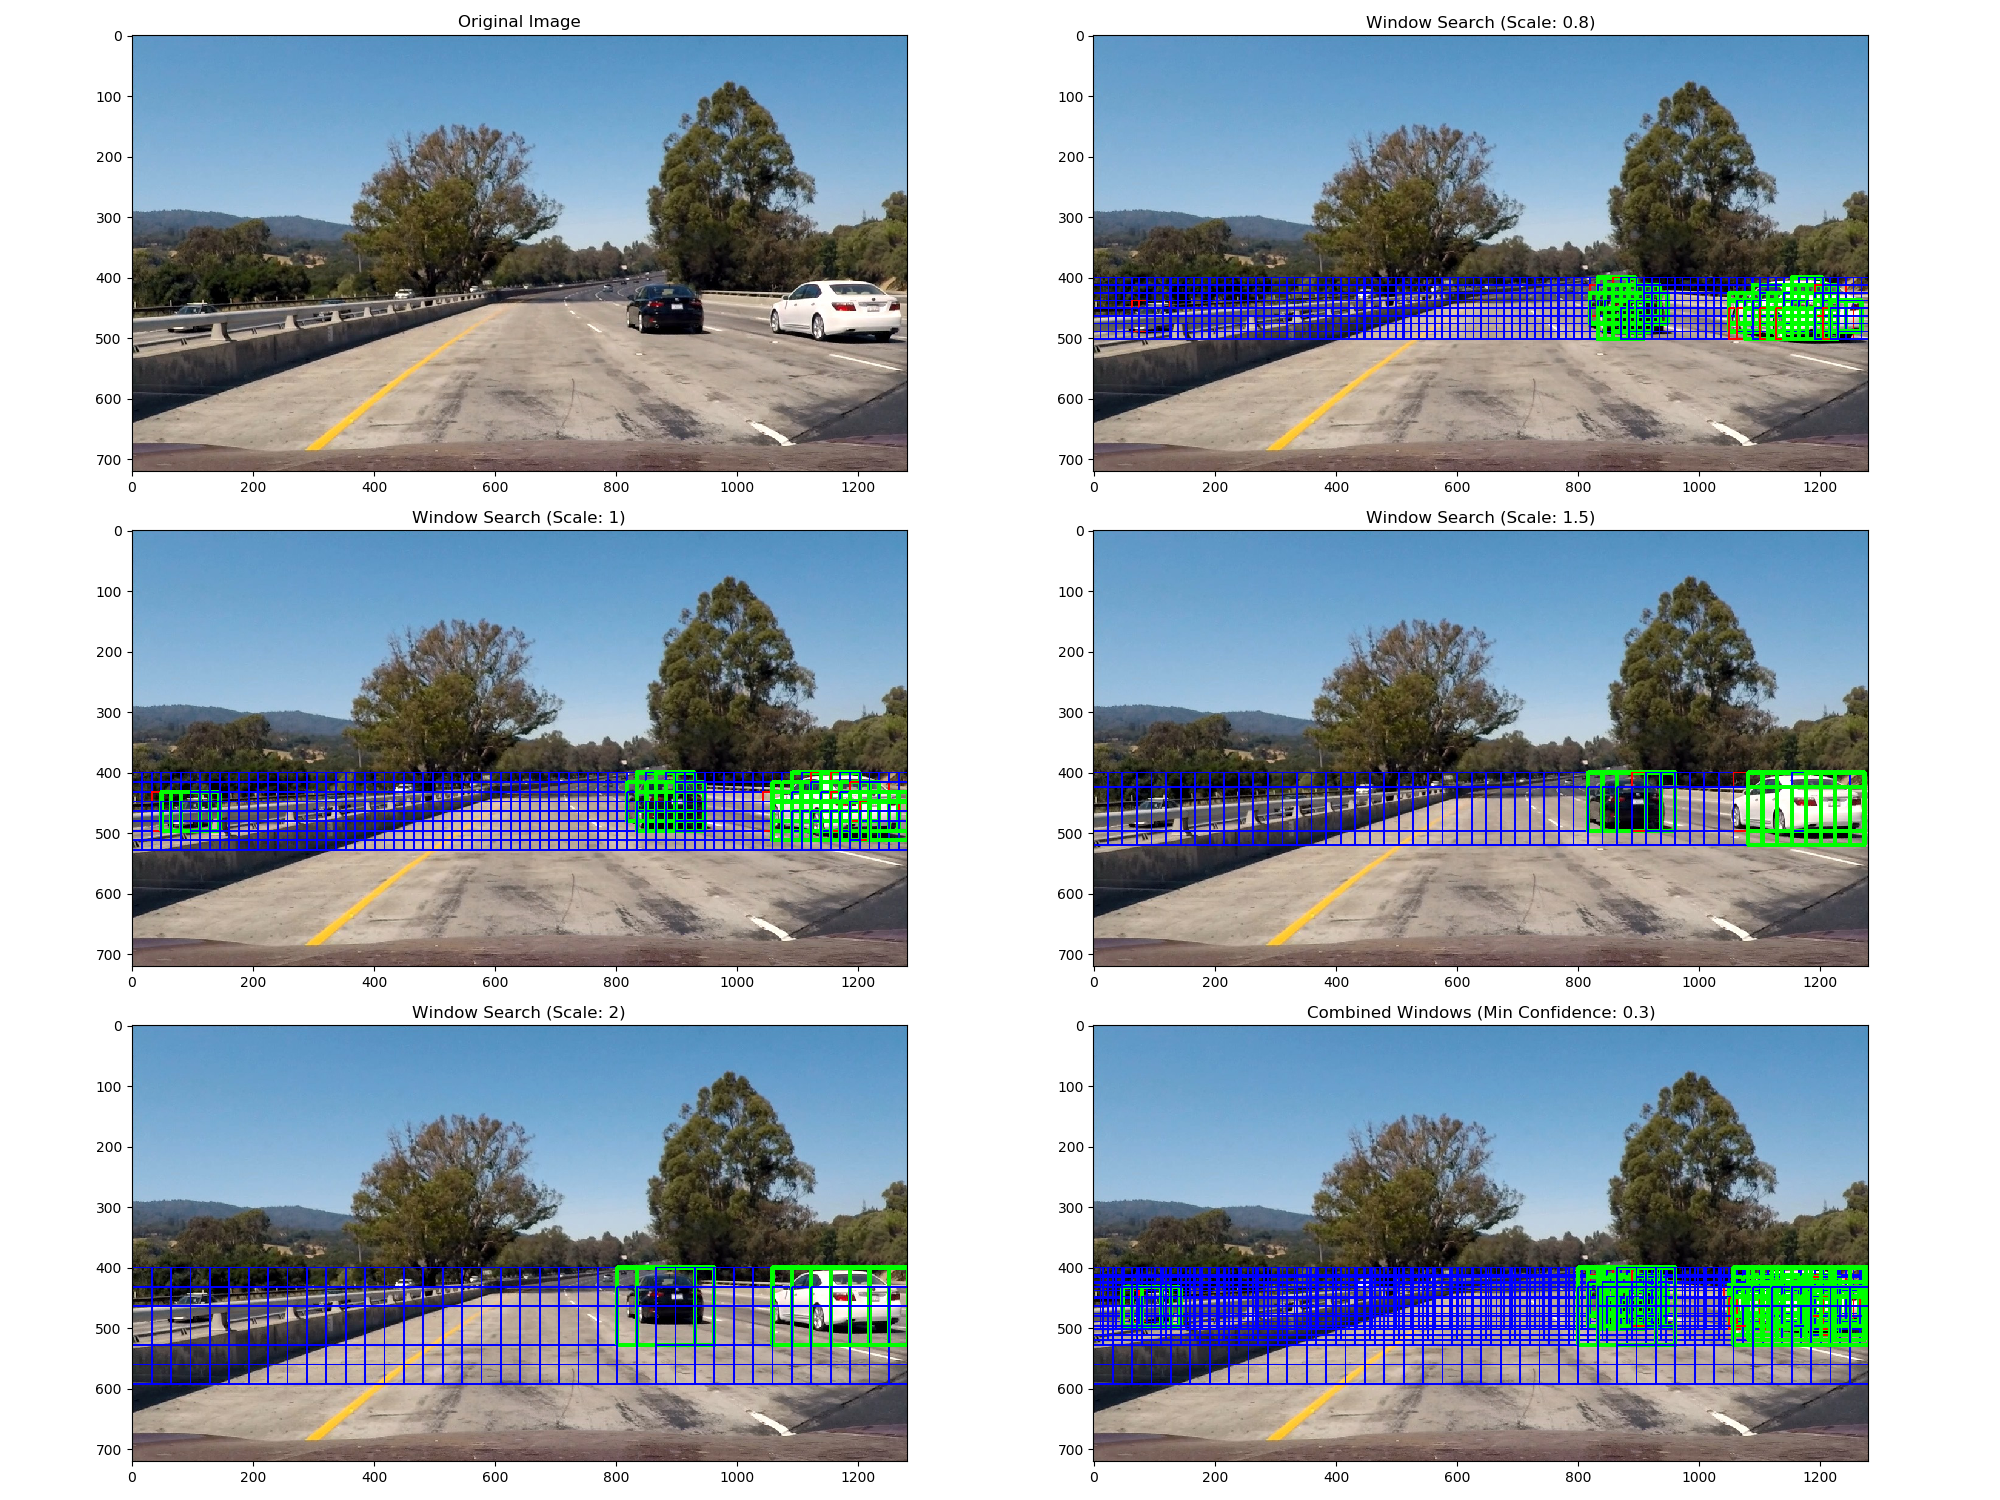
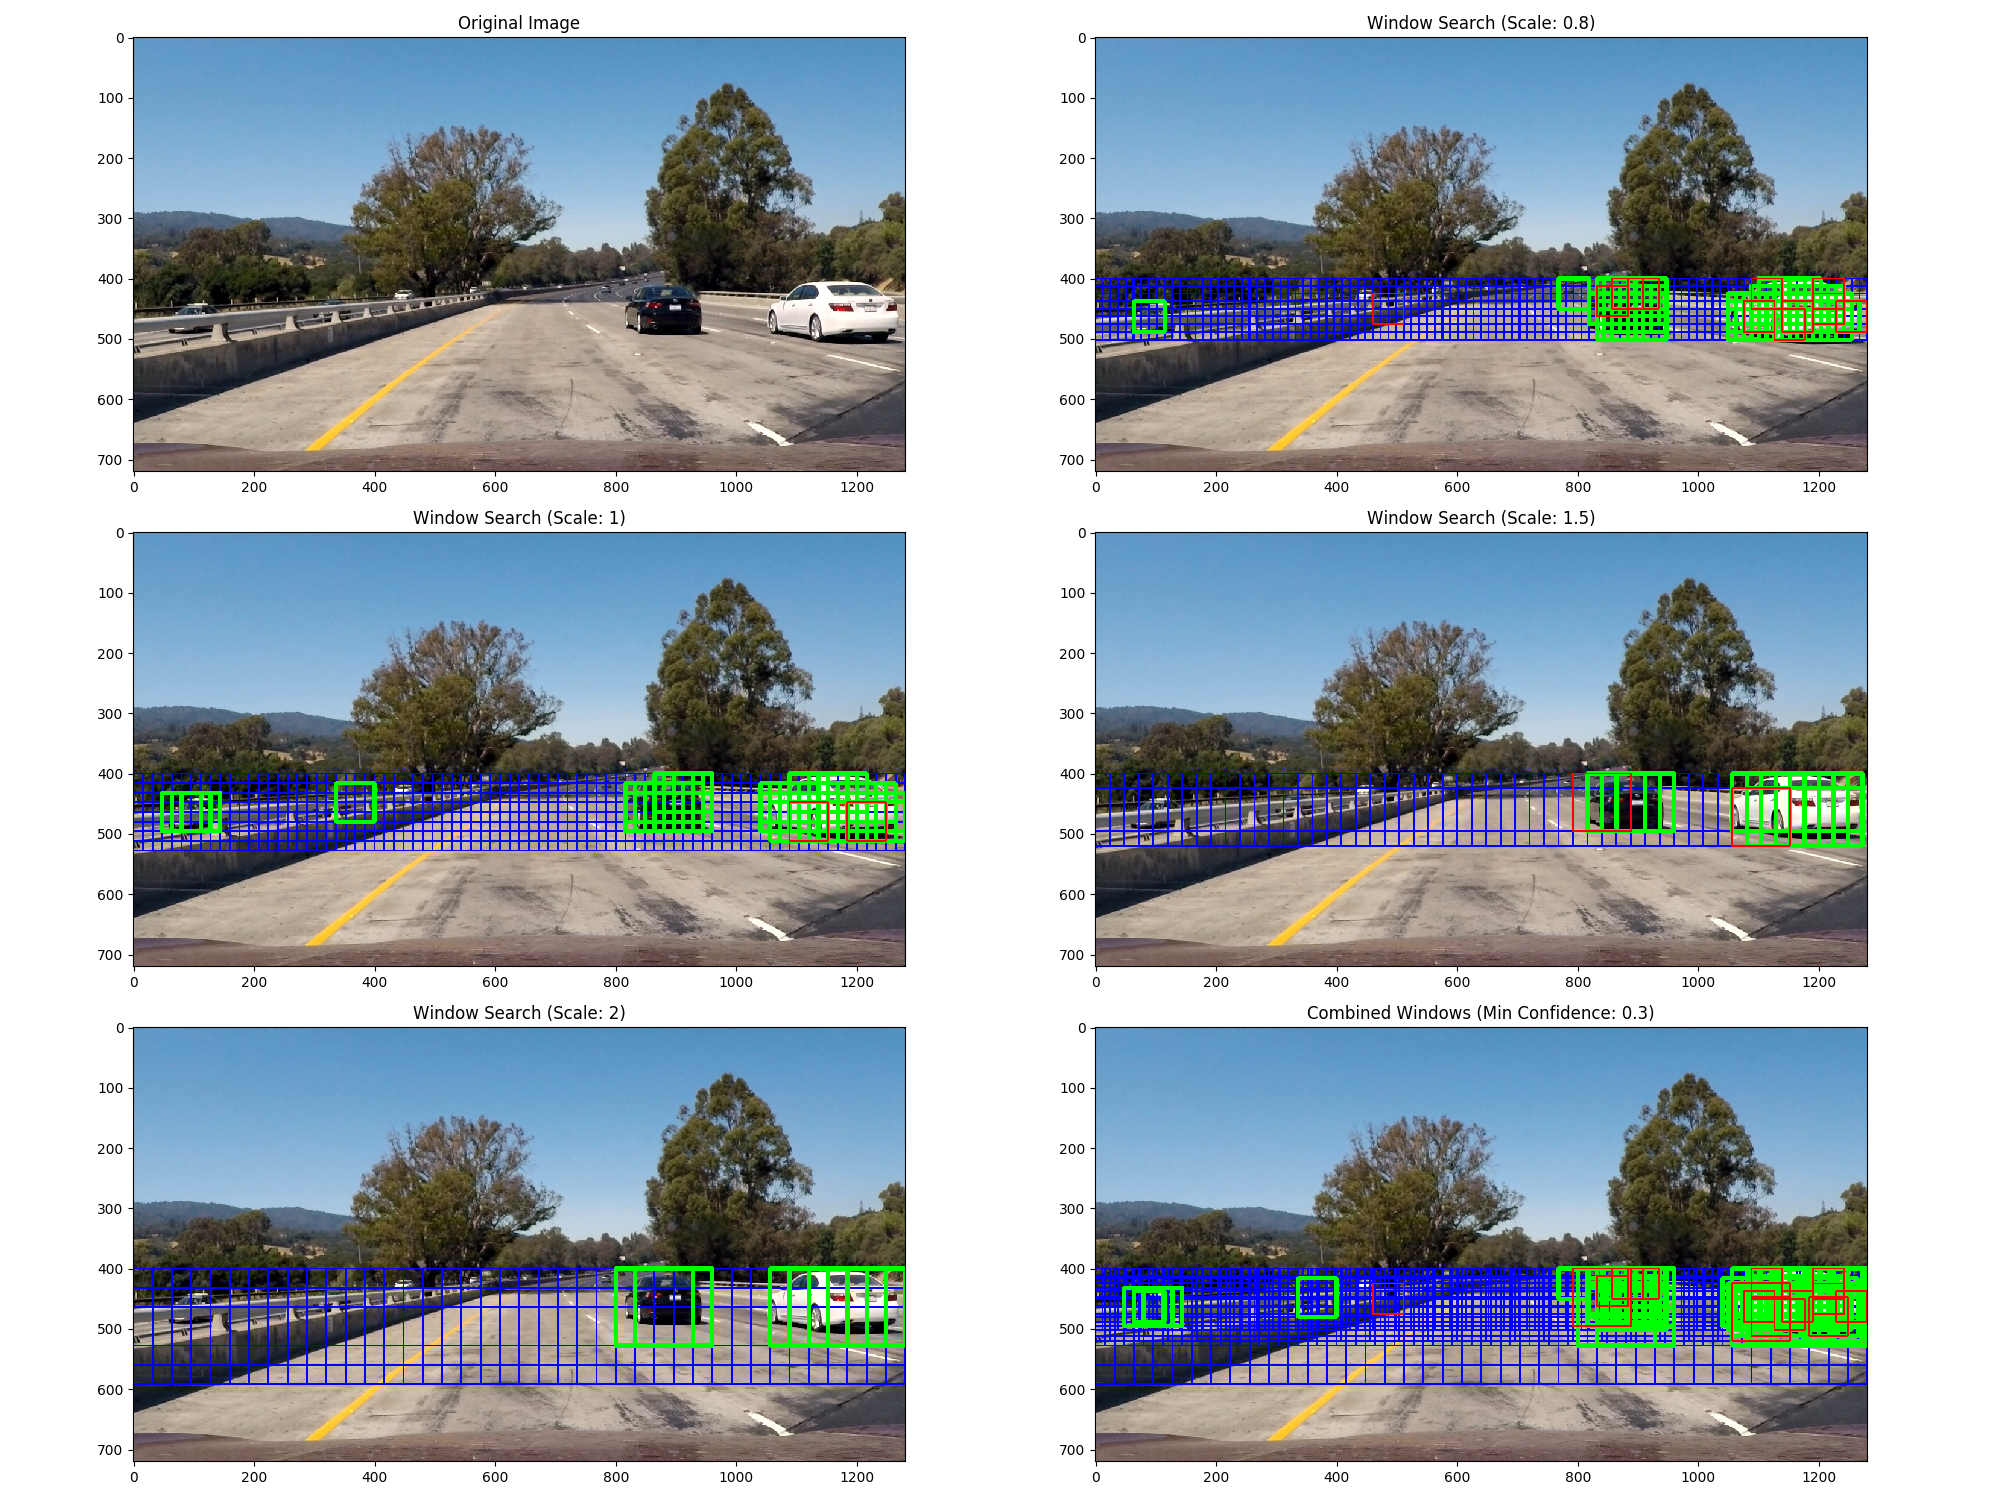
Image generation

diff --git a/img_gen.py b/img_gen.py
@@ -1,0 +1,183 @@
+import numpy as np
+import glob
+import time
+import cv2
+import os
+import signal
+import argparse
+import matplotlib as mpl
+# For plotting without a screen
+mpl.use('Agg')
+import matplotlib.pyplot as plt
+
+from multiprocessing import Pool
+from vehicle_detector import VehicleDetector
+from multiprocessing import Pool
+from utils import draw_bboxes, draw_windows
+from tqdm import tqdm
+
+def process_img(vd, img_file, out_dir = 'output_images', process_pool = None):
+
+    img = cv2.imread(img_file)
+    
+    t1 = time.time()
+    bounding_boxes, heatmap, windows = vd.detect_vehicles(img, process_pool=process_pool)
+    t2 = time.time()
+    
+    plt.figure(figsize = (20, 15))
+    
+    rows = np.ceil((len(windows) + 1) / 2)
+
+    i = 1
+    
+    all_bboxes = []
+    for y_min, y_max, scale, bboxes in windows:
+        
+        i += 1
+        plt.subplot(rows, 2, i)
+        plt.title('Window Search (Scale: {})'.format(scale))
+        box_img = draw_windows(img, bboxes, min_confidence = vd.min_confidence)
+        plt.imshow(cv2.cvtColor(box_img, cv2.COLOR_BGR2RGB))
+        all_bboxes.extend(bboxes)
+        
+    plt.subplot(rows, 2, 1)
+    plt.title('Original Image')
+    plt.imshow(cv2.cvtColor(img, cv2.COLOR_BGR2RGB))
+        
+    box_img = draw_windows(img, all_bboxes, min_confidence = vd.min_confidence)
+    plt.subplot(rows, 2, i + 1)
+    plt.title('Combined Windows (Min Confidence: {})'.format(vd.min_confidence))
+    plt.imshow(cv2.cvtColor(box_img, cv2.COLOR_BGR2RGB))
+        
+    plt.tight_layout()
+    img_prefix = os.path.split(img_file)[-1].split('.')[0]
+    plt.savefig(os.path.join(out_dir,  img_prefix + '_window_search.png'))
+    
+    plt.figure(figsize = (20, 10))
+    
+    plt.subplot(221)
+    plt.title('Original Image')
+    plt.imshow(cv2.cvtColor(img, cv2.COLOR_BGR2RGB))
+    
+    plt.subplot(222)
+    plt.title('Combined Windows (Min Confidence: {})'.format(vd.min_confidence))
+    plt.imshow(cv2.cvtColor(box_img, cv2.COLOR_BGR2RGB))
+    plt.subplot(223)
+    plt.title('Heatmap')
+    heatmap_o = vd.heatmap(img, windows, 0, 0)
+    plt.imshow(heatmap_o, cmap = 'hot')
+    
+    plt.subplot(224)
+    plt.title('Heatmap (Min confidence: {} , Threshold: {})'.format(vd.min_confidence, vd.heat_threshold))
+    plt.imshow(heatmap, cmap = 'hot')
+    
+    plt.tight_layout()
+    
+    plt.savefig(os.path.join(out_dir,  img_prefix + '_heatmap.png'))
+    
+    plt.figure(figsize = (20, 10))
+    
+    plt.subplot(221)
+    plt.title('Original Image')
+    plt.imshow(cv2.cvtColor(img, cv2.COLOR_BGR2RGB))
+    
+    plt.subplot(222)
+    plt.title('Combined Windows (Min Confidence: {})'.format(vd.min_confidence))
+    plt.imshow(cv2.cvtColor(box_img, cv2.COLOR_BGR2RGB))
+    plt.subplot(223)
+    plt.title('Heatmap (Min confidence: {} , Threshold: {})'.format(vd.min_confidence, vd.heat_threshold))
+    plt.imshow(heatmap, cmap = 'hot')
+    
+    labeled_img = draw_bboxes(img, bounding_boxes, (100, 255, 0), 3)
+    
+    plt.subplot(224)
+    plt.title('Labeled Image')
+    plt.imshow(cv2.cvtColor(labeled_img, cv2.COLOR_BGR2RGB))
+    
+    plt.tight_layout()
+    plt.savefig(os.path.join(out_dir,  img_prefix + '_labeled.png'))
+
+    return t2 - t1
+
+
+def worker_init():
+    """Ignore CTRL+C in the worker process."""
+    signal.signal(signal.SIGINT, signal.SIG_IGN)
+
+if __name__ == '__main__':
+
+    parser = argparse.ArgumentParser(description='Image Processing')
+
+    parser.add_argument(
+        '--dir',
+        type=str,
+        default='test_images',
+        help='Images folder'
+    )
+
+    parser.add_argument(
+        '--model_file',
+        type=str,
+        default=os.path.join('models', 'model.p'),
+        help='Images folder'
+    )
+
+    parser.add_argument(
+        '--cells_per_step',
+        type=int,
+        default=1,
+        help='Number of cells per steps'
+    )
+
+    parser.add_argument(
+        '--min_confidence',
+        type=float,
+        default=0.3,
+        help='Min prediction confidence for bounding boxes'
+    )
+
+    parser.add_argument(
+        '--threshold',
+        type=int,
+        default=5,
+        help='Heatmap threshold'
+    )
+
+    parser.add_argument('--disable-parallel', dest='parallel', action='store_false', help='Disable parallel processing (may decrease feature extraction speed)')
+    parser.set_defaults(parallel=True)
+
+    args = parser.parse_args()
+
+    imgs = glob.glob(os.path.join(args.dir, '*.jpg'))
+
+    vd = VehicleDetector(model_file=args.model_file, 
+                        cells_per_step=args.cells_per_step, 
+                        min_confidence = args.min_confidence, 
+                        heat_threshold = args.threshold)
+
+    pool_size = os.cpu_count()
+
+    if args.parallel is False or pool_size < 2:
+        process_pool = None
+    else:
+        process_pool = Pool(pool_size, initializer = worker_init)
+
+    print('Using {} cores'.format(1 if process_pool is None else pool_size))
+
+    try:
+
+        t = 0
+        
+        for img_file in tqdm(imgs, unit = ' images', desc = 'Image Processing'):
+
+            img_t = process_img(vd, img_file, process_pool=process_pool)
+
+            t += img_t
+        
+        print('Total/Average time: {:.3f}/{:.3f} s'.format(t, t/len(imgs)))
+
+    except Exception as e:
+        if process_pool is not None:
+            process_pool.terminate()
+        raise e
+    

diff --git a/vehicle_detector.py b/vehicle_detector.py
@@ -44,7 +44,7 @@ class VehicleDetector:
             cell_per_block = self.cell_per_block
         )
 
-    def window_confidence(self, window_img, layer_hog_features, x_pos, y_pos, blocks_per_window, process_pool = None):
+    def _window_confidence(self, window_img, layer_hog_features, x_pos, y_pos, blocks_per_window):
         
         features = []
         
@@ -55,7 +55,7 @@ class VehicleDetector:
 
         # Color historgram features
         if self.features_extractor.hist_bins is not None:
-            hist_features = self.features_extractor.color_hist(window_img, process_pool=process_pool)
+            hist_features = self.features_extractor.color_hist(window_img)
             features.append(hist_features)
 
         hog_features = []
@@ -74,12 +74,11 @@ class VehicleDetector:
         features = self.scaler.transform(features.reshape(1, -1))    
 
         # Computes prediction confidence
-        
         confidence = self.model.decision_function(features)
 
         return confidence
     
-    def windows_search(self, img, y_min = None, y_max = None, scale = 1.0, process_pool = None):
+    def windows_search(self, img, y_min = None, y_max = None, scale = 1.0):
 
         if y_min is None:
             y_min = 0
@@ -110,18 +109,11 @@ class VehicleDetector:
         y_steps = (y_blocks - blocks_per_window) // self.cells_per_step + 1
 
         # Compute individual channel HOG features for the entire image
-        if process_pool is None:
-            hog_features = []
+        hog_features = []
 
-            for channel in range(img_layer.shape[2]):
-                ch_features = self.features_extractor.extract_hog_features(img_layer[:,:,channel], feature_vec = False)
-                hog_features.append(ch_features)
-        else:
-            hog_features = process_pool.starmap(self.features_extractor.extract_hog_features, [
-                (img_layer[:,:,0], False, False), 
-                (img_layer[:,:,1], False, False), 
-                (img_layer[:,:,2], False, False)
-            ])
+        for channel in range(img_layer.shape[2]):
+            ch_features = self.features_extractor.extract_hog_features(img_layer[:,:,channel], feature_vec = False)
+            hog_features.append(ch_features)
             
         windows = []
 
@@ -140,7 +132,7 @@ class VehicleDetector:
                 if window_img.shape[0] < self.window or window_img.shape[1] < self.window:
                     window_img = cv2.resize(window_img, (self.window, self.window), interpolation = self.interpolation[1])
 
-                confidence = self.window_confidence(window_img, hog_features, x_pos, y_pos, blocks_per_window, process_pool=process_pool)
+                confidence = self._window_confidence(window_img, hog_features, x_pos, y_pos, blocks_per_window)
 
                 window_scale = np.int(self.window * scale)
 
@@ -151,23 +143,24 @@ class VehicleDetector:
                 
         return windows
 
-    def heat(self, heatmap, windows):
-        
-        for window in filter(lambda window:window[1] > self.min_confidence, windows):
-            bbox, _ = window
-            heatmap[bbox[0][1]:bbox[1][1], bbox[0][0]:bbox[1][0]] += 1
-            #heatmap[bbox[0][1]:bbox[1][1], bbox[0][0]:bbox[1][0]] += 1 * confidence
+    def _heat(self, heatmap, windows, min_confidence):
+    
+        # y_min, y_max, scale, bboxes
+        for _, _, _, bboxes in windows:
+            # bbox, confidence
+            for bbox, _ in filter(lambda bbox:bbox[1] > min_confidence, bboxes):
+                heatmap[bbox[0][1]:bbox[1][1], bbox[0][0]:bbox[1][0]] += 1
         
         return heatmap
 
-    def heatmap(self, img, windows):
+    def heatmap(self, img, windows, min_confidence, threshold):
         
         # Base empty heatmap
         heatmap = np.zeros_like(img[:,:,0]).astype(np.float)
         # Builds heat
-        self.heat(heatmap, windows)
+        self._heat(heatmap, windows, min_confidence)
         # Threshold
-        heatmap[heatmap <= self.heat_threshold] = 0
+        heatmap[heatmap <= threshold] = 0
         # Clipping
         heatmap = np.clip(heatmap, 0, 255)
         
@@ -200,14 +193,18 @@ class VehicleDetector:
         windows = []
 
         # Extract the windows for each layer
-        for y_min, y_max, scale in self.layers:
-            
-            layer_windows = self.windows_search(img, y_min = y_min, y_max = y_max, scale = scale, process_pool = process_pool)
-
-            windows.extend(layer_windows)
+        if process_pool is None:
+            for y_min, y_max, scale in self.layers:
+                layer_windows = self.windows_search(img, y_min = y_min, y_max = y_max, scale = scale)
+                windows.append((y_min, y_max, scale, layer_windows))
+        else:
+            layers_windows = process_pool.starmap(self.windows_search, [(img, y_min, y_max, scale) for (y_min, y_max, scale) in self.layers])
+            for i, layer_windows in enumerate(layers_windows):
+                y_min, y_max, scale = self.layers[i]
+                windows.append((y_min, y_max, scale, layer_windows))
 
         # Computes the heatmap
-        heatmap = self.heatmap(img, windows)
+        heatmap = self.heatmap(img, windows, self.min_confidence, self.heat_threshold)
 
         # Computes the detected cars
         bounding_boxes = self.bounding_boxes(heatmap)

diff --git a/utils.py b/utils.py
@@ -1,0 +1,25 @@
+import numpy as np
+import cv2
+
+def draw_bboxes(img, bboxes, color, thick):
+    
+    img_copy = np.copy(img)
+
+    for bbox in bboxes:
+        cv2.rectangle(img_copy, bbox[0], bbox[1], color, thick)
+    
+    return img_copy
+
+def draw_windows(img, windows, min_confidence):
+    
+    # Filters out according to confidence
+    windows_neg = filter(lambda window:window[1] < 0, windows)
+    windows_pos = filter(lambda window:window[1] > min_confidence, windows)
+    windows_dis = filter(lambda window:window[1] > 0 and window[1] < min_confidence, windows)
+    
+    # Draw the boxes
+    img_copy = draw_bboxes(img, map(lambda window:window[0], windows_neg), (255, 0, 0), 2)
+    img_copy = draw_bboxes(img_copy, map(lambda window:window[0], windows_pos), (0, 255, 0), 5)
+    img_copy = draw_bboxes(img_copy, map(lambda window:window[0], windows_dis), (0, 0, 255), 2)
+    
+    return img_copy

diff --git a/model.py b/model.py
@@ -52,14 +52,13 @@ def scale(X_train, X_test):
 
     return X_train, X_test, X_scaler
 
-from sklearn.model_selection import GridSearchCV
-
 def train(X_train, y_train, rand_state):
   
     print('Feature Vector Size:', len(X_train[0]))
 
     # Use a linear SVC
-    svc = LinearSVC(random_state = rand_state, dual=False, C=10**-2)
+    #svc = LinearSVC(random_state = rand_state, dual=False, C=10**-2)
+    svc = LinearSVC(random_state = rand_state)
 
     t1 = time.time()
     
